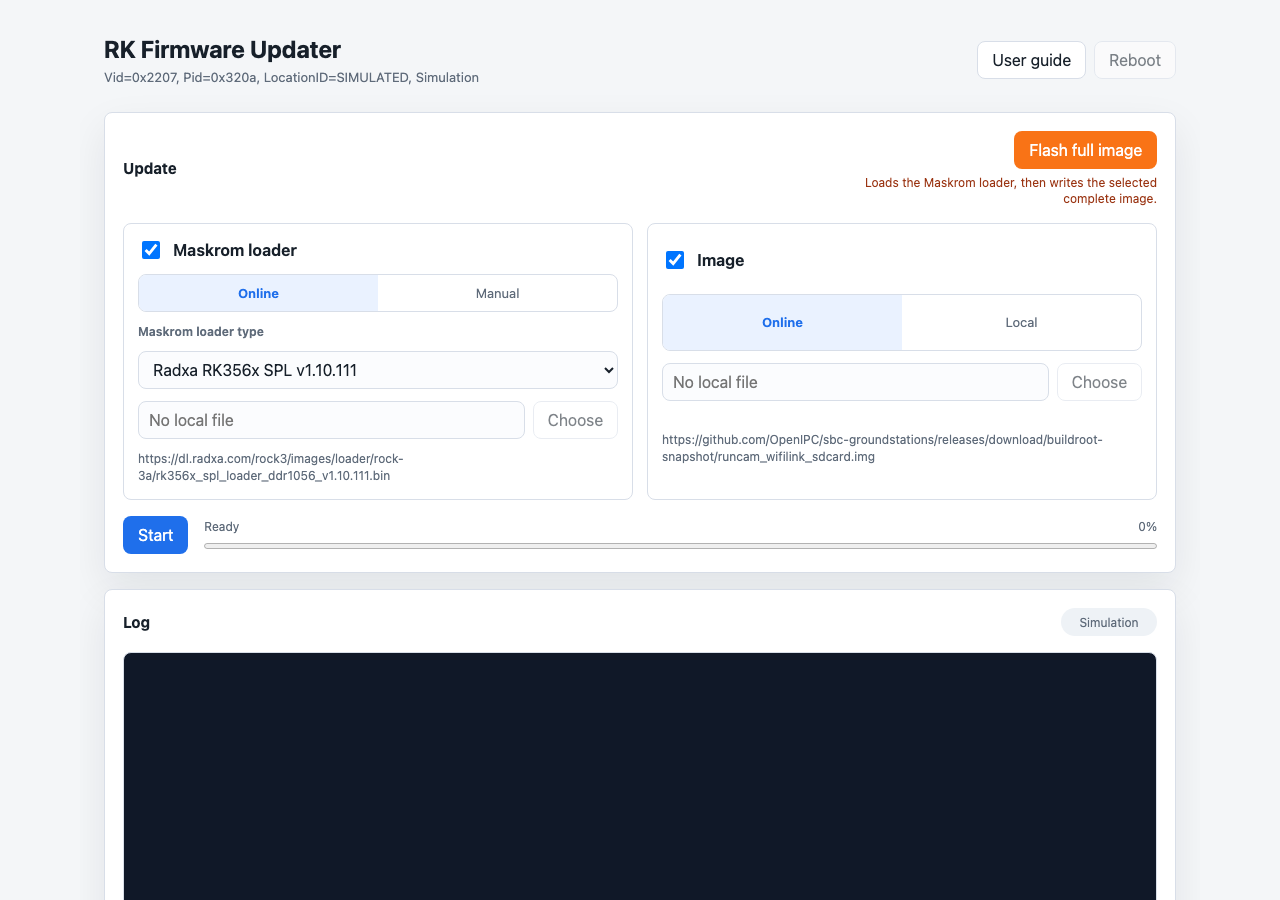
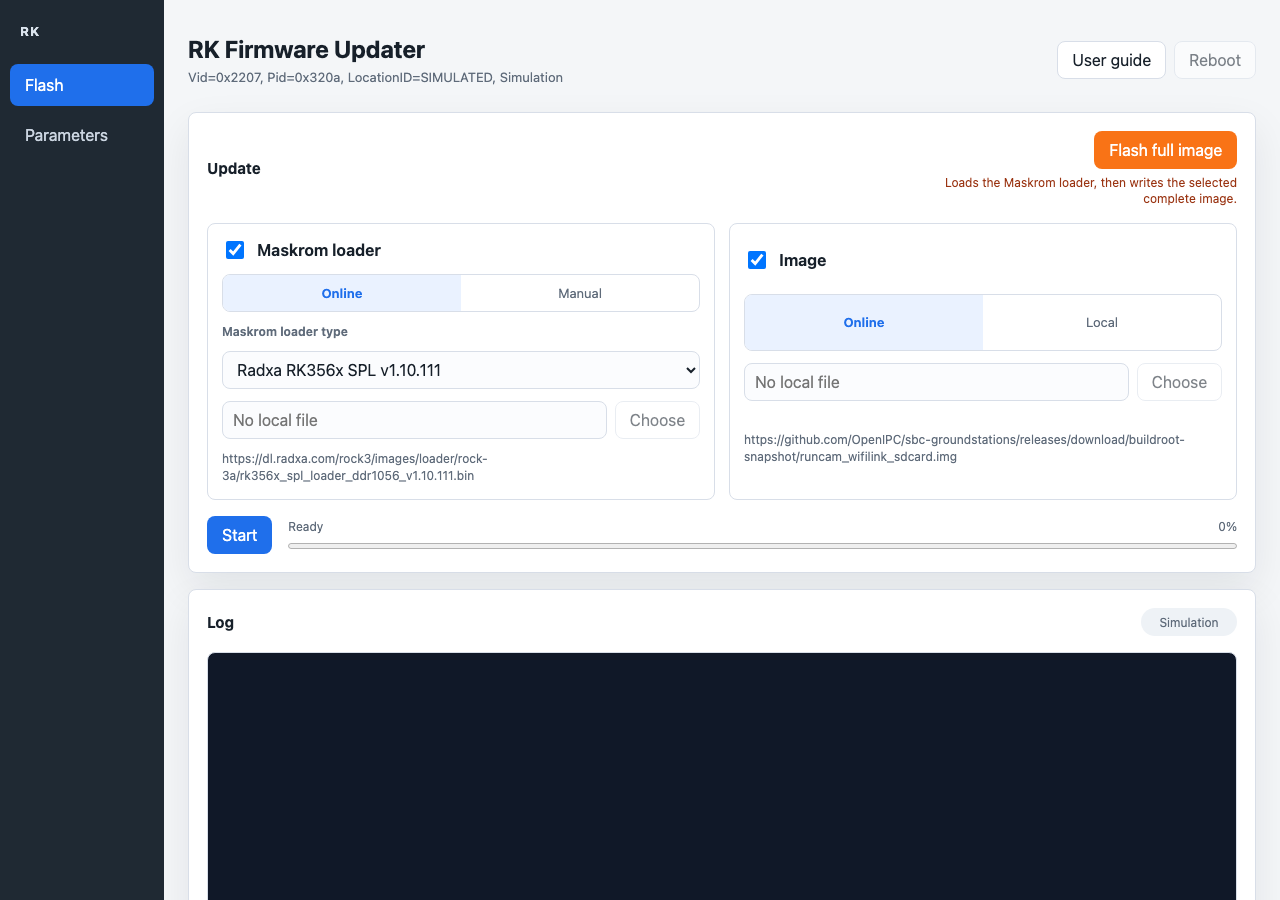
Update docs and screenshots for tabbed GUI

diff --git a/gui/scripts/capture-doc-screenshots.js b/gui/scripts/capture-doc-screenshots.js
@@ -60,8 +60,46 @@ function appBody(options = {}) {
   const statusClass = options.statusClass || '';
   const log = options.log || '';
   const rebootDisabled = options.rebootEnabled ? '' : 'disabled';
+  const view = options.view || 'flash';
+  const flashSelected = view === 'flash';
+  const parametersSelected = view === 'parameters';
+  const configJson = JSON.stringify({
+    rkdeveloptoolPath: '',
+    commandPrefix: [],
+    releasePageUrl: 'https://github.com/OpenIPC/sbc-groundstations/releases/tag/buildroot-snapshot',
+    releaseApiUrl: 'https://api.github.com/repos/OpenIPC/sbc-groundstations/releases/tags/buildroot-snapshot',
+    documentationUrl: 'https://github.com/krl91/rkdeveloptool-gui/blob/main/docs/USER_GUIDE.md',
+    rkdeveloptoolCommandDelayMs: 2000,
+    network: {
+      metadataTimeoutMs: 300000,
+      downloadTimeoutMs: 7200000
+    },
+    loader: {
+      assetName: 'rk356x_spl_loader_ddr1056_v1.10.111.bin',
+      url: loaderUrl,
+      choices: [
+        {
+          id: 'rk356x-v1.10.111',
+          label: 'Radxa RK356x SPL v1.10.111',
+          assetName: 'rk356x_spl_loader_ddr1056_v1.10.111.bin',
+          url: loaderUrl
+        }
+      ]
+    },
+    image: {
+      assetName: 'runcam_wifilink_sdcard.img',
+      url: imageUrl,
+      lba: 0
+    }
+  }, null, 2);
 
   return `
+<div class="app-layout">
+<nav class="sidebar" aria-label="Main navigation">
+  <div class="sidebar-title">RK</div>
+  <button id="flashTab" class="nav-tab ${flashSelected ? 'active' : ''}" type="button" data-view="flash" ${flashSelected ? 'aria-current="page"' : ''}>Flash</button>
+  <button id="parametersTab" class="nav-tab ${parametersSelected ? 'active' : ''}" type="button" data-view="parameters" ${parametersSelected ? 'aria-current="page"' : ''}>Parameters</button>
+</nav>
 <main class="shell">
   <header class="topbar">
     <div>
@@ -74,6 +112,7 @@ function appBody(options = {}) {
     </div>
   </header>
 
+  <section id="flashView" class="view ${flashSelected ? 'active' : ''}" data-view-panel="flash" ${flashSelected ? '' : 'hidden'}>
   <section class="panel controls">
     <div class="section-header">
       <h2>Update</h2>
@@ -140,7 +179,39 @@ function appBody(options = {}) {
     </div>
     <pre id="log">${log}</pre>
   </section>
-</main>`;
+  </section>
+
+  <section id="parametersView" class="view ${parametersSelected ? 'active' : ''}" data-view-panel="parameters" ${parametersSelected ? '' : 'hidden'}>
+    <section class="panel parameters-panel">
+      <div class="section-header">
+        <h2>Parameters</h2>
+        <div class="parameters-actions">
+          <button id="loadConfigButton" class="secondary" type="button">Load external file</button>
+          <button id="exportConfigButton" class="secondary" type="button">Export file</button>
+          <button id="resetConfigButton" class="danger-secondary" type="button">Reset</button>
+          <button id="applyConfigButton" class="primary" type="button">Apply</button>
+        </div>
+      </div>
+      <p class="parameters-help">Edit the complete JSON configuration. Apply saves it as the application user configuration.</p>
+      <textarea id="configEditor" spellcheck="false" aria-label="JSON configuration">${configJson}</textarea>
+      <div class="parameters-grid">
+        <article class="parameter-row">
+          <span>Release API</span>
+          <strong id="parameterReleaseApi">api.github.com</strong>
+        </article>
+        <article class="parameter-row">
+          <span>Maskrom loader source</span>
+          <strong id="parameterLoaderSource">dl.radxa.com</strong>
+        </article>
+        <article class="parameter-row">
+          <span>Image source</span>
+          <strong id="parameterImageSource">github.com</strong>
+        </article>
+      </div>
+    </section>
+  </section>
+</main>
+</div>`;
 }
 
 function dialogBody(title, message, primary, secondary, warning = false) {
@@ -234,6 +305,10 @@ function main() {
   renderUrlScreenshot(chrome, '01-no-device-simulation-choice.png', noDevicePageUrl, 1040, 820);
 
   renderScreenshot(chrome, '02-main-window.png', htmlPage(appBody()), 1280, 900);
+
+  renderScreenshot(chrome, '06-parameters-tab.png', htmlPage(appBody({
+    view: 'parameters'
+  })), 1280, 900);
 
   renderScreenshot(chrome, '03-confirm-update.png', htmlPage(dialogBody(
     'Confirm firmware update',

diff --git a/docs/USER_GUIDE.md b/docs/USER_GUIDE.md
@@ -93,6 +93,12 @@ device line clearly says `Simulation`.
 Use **User guide** in the top-right corner to open the online documentation in
 your default web browser.
 
+The left side of the window contains two tabs:
+
+- **Flash:** the normal update workflow for loading a Maskrom loader and/or
+  writing an image.
+- **Parameters:** the full JSON configuration editor for advanced settings.
+
 At startup, the application can also check the GitHub release page for a newer
 RK Firmware Updater version. If your computer is offline, this check is skipped.
 When a newer version is available, the application asks before downloading the
@@ -131,6 +137,30 @@ application logs the calculated SHA256 for traceability.
 
 The configured default URLs are visible in the window. They can be changed by
 editing the GUI configuration file. See [GUI configuration](../README.md#gui-configuration).
+
+## Parameters Tab
+
+Use the **Parameters** tab when you need to inspect or edit the complete JSON
+configuration used by the application.
+
+![Parameters tab](assets/screenshots/06-parameters-tab.png)
+
+The editor shows the active JSON configuration. It is intended for advanced
+users and maintainers who need to change URLs, loader choices, image names,
+timeouts, update behavior, or local command settings.
+
+Available actions:
+
+- **Load external file:** reads a JSON file from your computer and replaces the
+  editor contents. The configuration is not used until you click **Apply**.
+- **Export file:** saves a copy of the JSON currently shown in the editor.
+- **Reset:** restores the packaged default configuration after confirmation.
+- **Apply:** validates the JSON, saves it as the user configuration, and applies
+  it immediately.
+
+If the JSON is invalid, the application keeps the previous configuration and
+shows an error. Reset is useful if a manual edit prevents downloads or flashing
+from working correctly.
 
 ## Full Image Flash
 
@@ -210,6 +240,10 @@ timeouts. Application self-update checks can also be configured or disabled
 with the `autoUpdate` section. The delay between consecutive `rkdeveloptool`
 commands is configurable with `rkdeveloptoolCommandDelayMs`; the default is
 2000 ms so the USB device has time to settle between operations.
+
+The same configuration can be viewed and edited from the **Parameters** tab in
+the application. Click **Apply** to save changes to the Electron user data
+configuration file, or **Reset** to restore the packaged defaults.
 
 Default network timeouts are deliberately long:
 

diff --git a/README.md b/README.md
@@ -39,6 +39,12 @@ Maskrom loader and a complete OpenIPC image, verifies online image downloads
 with SHA256, loads the Maskrom loader before writing the image, shows progress,
 and offers to reboot the device at the end.
 
+The GUI uses a left navigation bar with two tabs:
+
+- **Flash** for the normal loader/image update workflow.
+- **Parameters** for viewing, importing, exporting, applying, and resetting the
+  full JSON configuration.
+
 If no device is connected, the application can start a simulation mode so users
 can explore the workflow safely.
 
@@ -316,6 +322,14 @@ does not attempt the update network check at startup.
 If a custom configuration file is loaded, the GUI shows a permanent warning
 banner and the confirmation dialog lists the active release, loader, and image
 source hosts before any flash operation starts.
+
+The packaged GUI also includes a **Parameters** tab. It displays the complete
+active JSON configuration and provides these actions:
+
+- **Load external file** to replace the editor contents with a JSON file.
+- **Export file** to save a copy of the JSON.
+- **Apply** to validate, save, and immediately use the edited configuration.
+- **Reset** to restore the packaged default configuration after confirmation.
 
 
 USB Notes

diff --git a/gui/README.md b/gui/README.md
@@ -48,7 +48,8 @@ parsing, binary discovery, command prefixing, GitHub asset/SHA256 resolution,
 local SHA256 calculation, and the mandatory Maskrom-loader-before-image update
 order. They also cover the mandatory delay between consecutive `rkdeveloptool`
 commands and the renderer behavior that keeps selected local/online sources
-when **Flash full image** is used.
+when **Flash full image** is used. Layout tests also cover the left navigation
+tabs and the Parameters JSON editor actions.
 Integration tests use `tests/fixtures/mock-rkdeveloptool.js` to validate the
 GUI process runner against a controlled `rkdeveloptool` replacement without
 touching real USB hardware.
@@ -87,6 +88,11 @@ The app looks for `rkdeveloptool` in this order:
 Defaults are in `config/default.json`. Override them with a
 `rkdeveloptool-gui.config.json` file in the current working directory, in the
 Electron user data directory, or by setting `RKDEVELOPTOOL_GUI_CONFIG`.
+
+The running application also exposes a **Parameters** tab. It shows the active
+JSON configuration, can load an external JSON file into the editor, export the
+current JSON, apply validated changes to the Electron user data configuration
+file, or reset everything to the packaged defaults.
 
 The GitHub release page and API URLs are configurable. For online updates, the
 app reads the release metadata, finds the requested asset, and verifies the